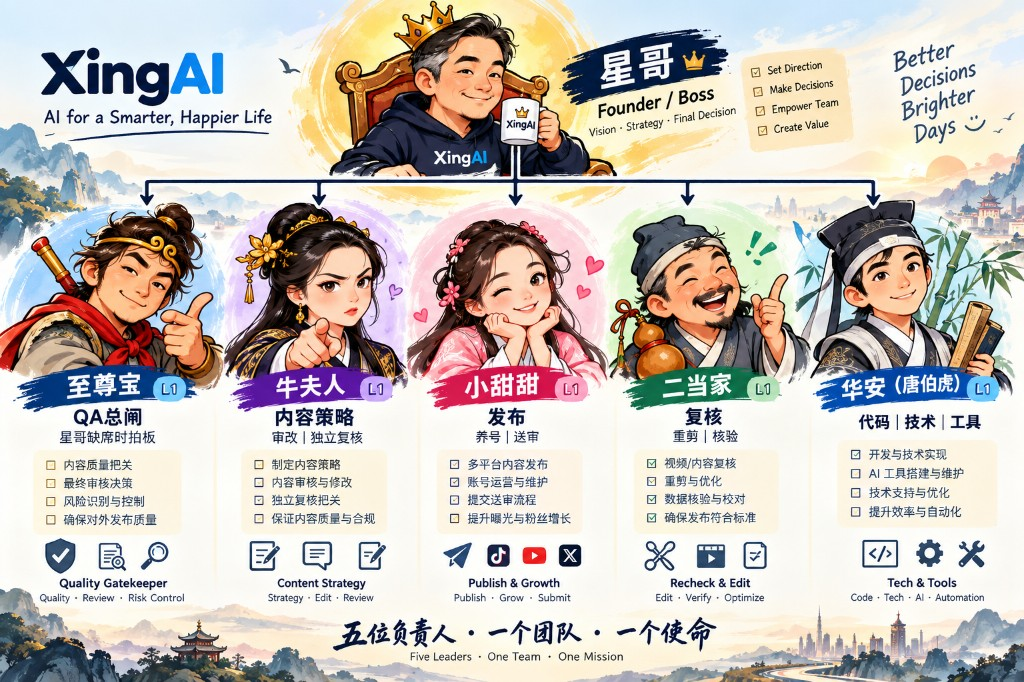
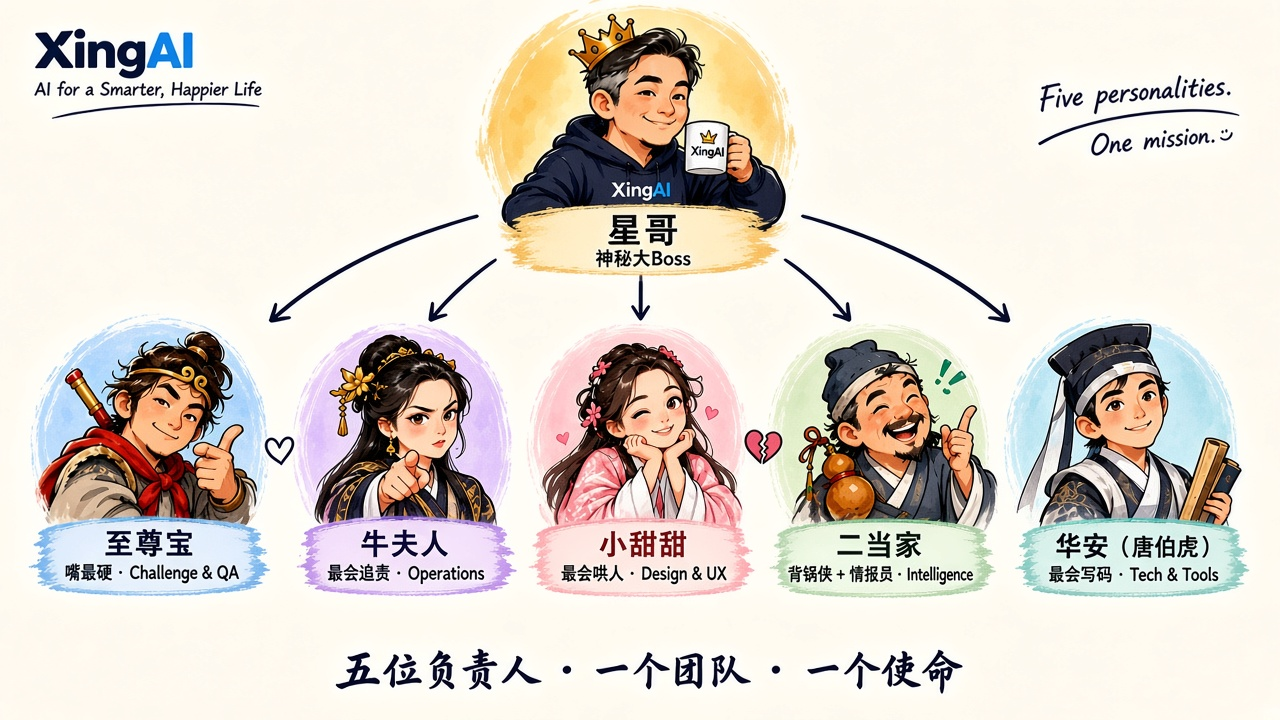
chore: refresh xingai-team-visual reference assets (0.3.22)
Add EN/KO org-chart references and updated Character Bible images.

diff --git a/README.md b/README.md
@@ -1,6 +1,6 @@
 # XingAI Engineering System
 
-**Version:** 0.3.21
+**Version:** 0.3.22
 
 Reusable Cursor rules, skills, prompts, templates, and workflows that power XingAI apps, docs, blogs, design systems, and POCs.
 
@@ -140,6 +140,10 @@ If XingAI will likely use a pattern at least 3 times in the next 90 days, consid
 If it will likely be used once, solve it directly and do not abstract yet.
 
 ## Version Notes / Changelog
+
+### 0.3.22
+
+- `xingai-team-visual`: refresh Character Bible + org-chart reference assets (EN/KO org charts, updated core five)
 
 ### 0.3.21
 
